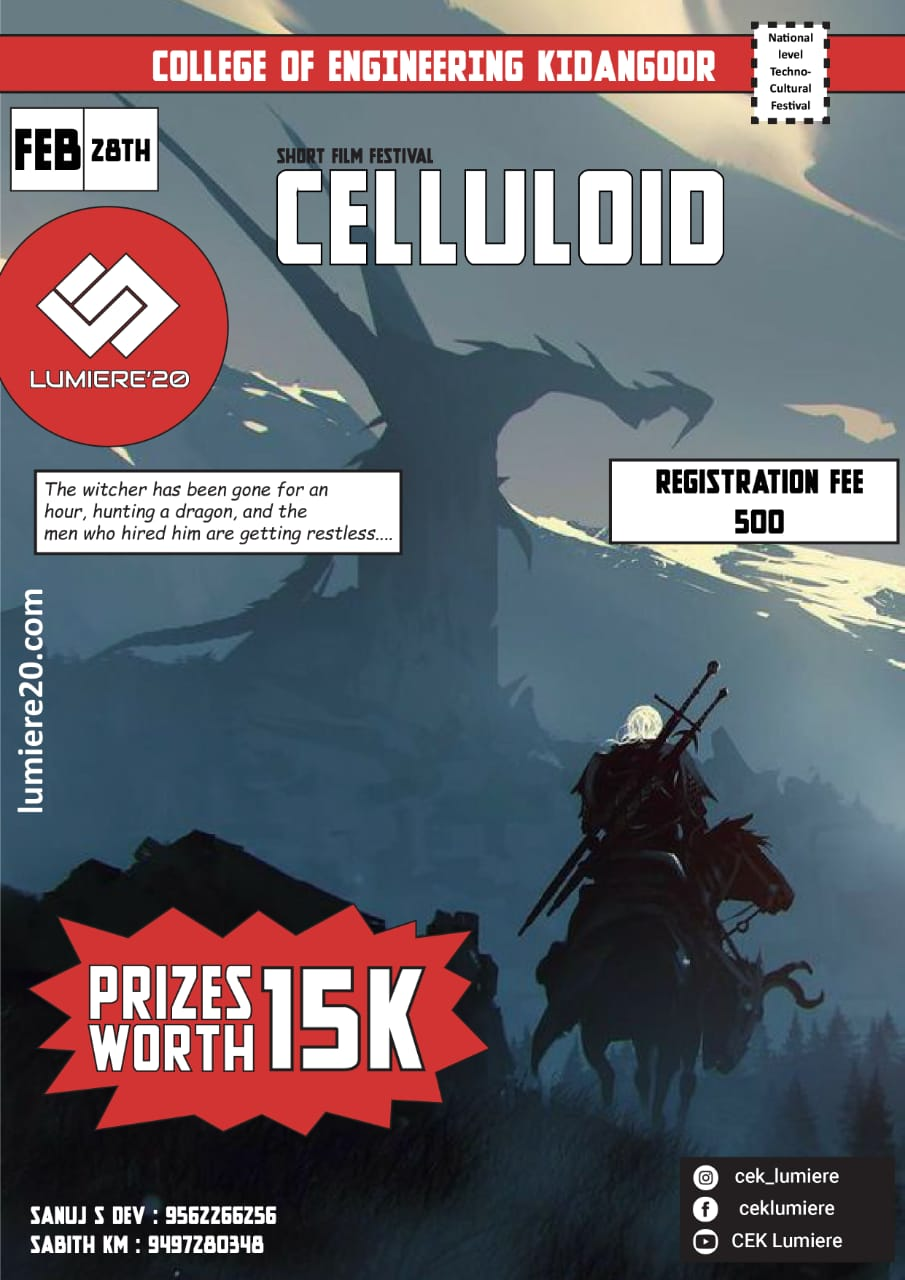
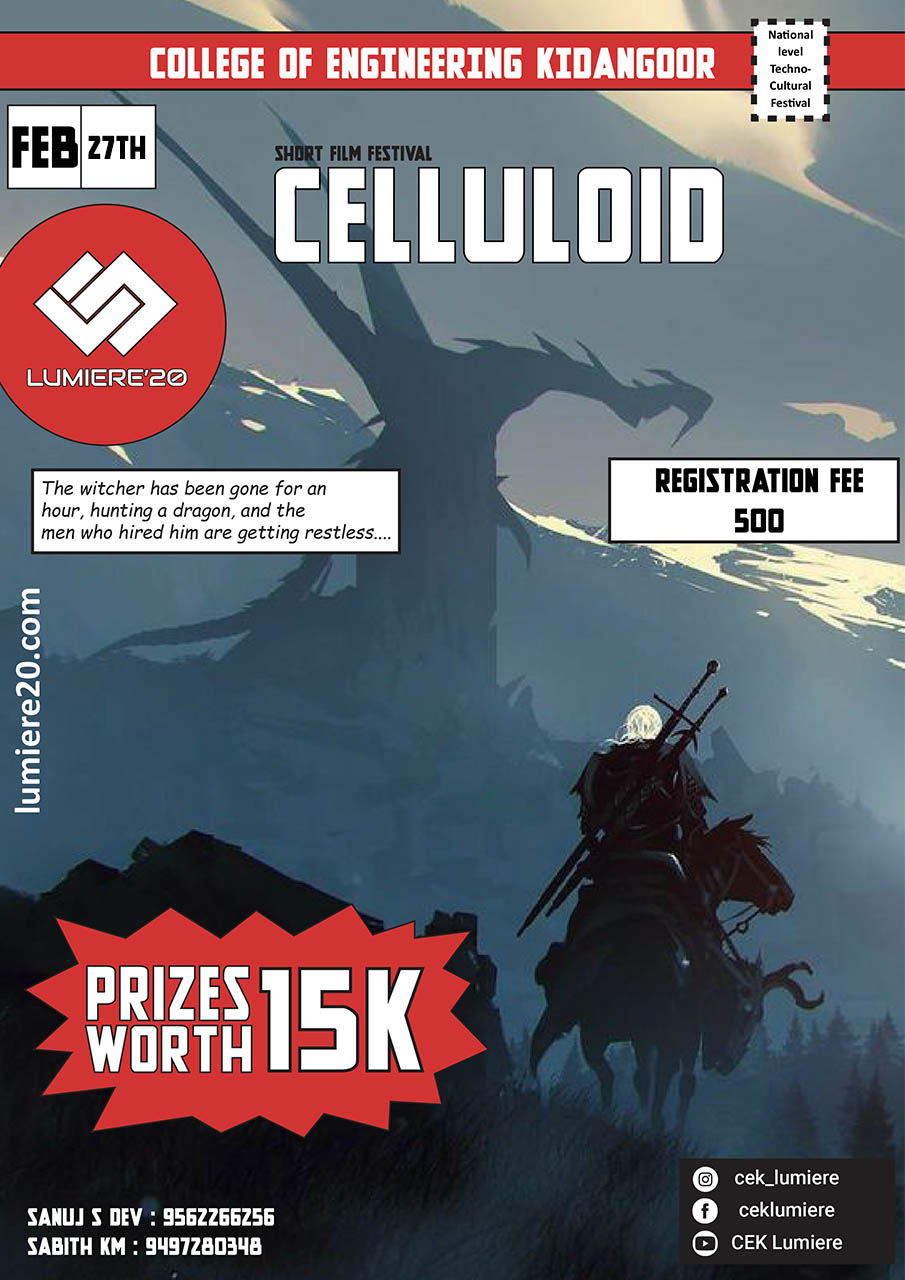
all poster and date correction

diff --git a/data/events/cultural/adapt-tune/index.md b/data/events/cultural/adapt-tune/index.md
@@ -1,6 +1,6 @@
 ---
 title: Adapt Tune
-image: ./event.png
+image: ./Adaptune.jpg
 description: Show off your dance skills in this amazing platform where you sync your brain and legs to adapt yourself to the beats!
 
 rules: 
@@ -23,6 +23,6 @@ eventHeads:
 prize: 5000
 registration: 200
 reg: https://www.yepdesk.com/buy-tickets/5e22c815e4b022450dc370c5
-date: Feb 27
+date: Feb 28
 ---
 Show off your dance skills in this amazing platform where you sync your brain and legs to adapt yourself to the beats!

diff --git a/data/events/cultural/fashion-show/index.md b/data/events/cultural/fashion-show/index.md
@@ -1,6 +1,6 @@
 ---
 title: Fashion Show
-image: ./event.png
+image: ./FashionShow.jpg
 description: Fashion is part of the daily air and it changes all the time, with all the events. You can even see the approaching of a revolution in clothes. You can see and feel everything in clothes. What you wear is how you present yourself to the world, especially today, when human contacts are so quick. Let’s explore your talent to glam yourself and prepare yourself for.
 
 rules: 

diff --git a/data/events/cultural/voice-of-lumiere/index.md b/data/events/cultural/voice-of-lumiere/index.md
@@ -20,6 +20,6 @@ eventHeads:
 prize: 5000
 registration: 100
 reg: https://www.yepdesk.com/buy-tickets/5e22cc74e4b022450dc39413
-date: Feb 28
+date: Feb 27
 ---
 Voices, The soul of music. A soulful voice that transcends all emotions. That voice which tranquilized all rage. That voice which gives everyone the Goosebumps. The voice that thrills. That voice could be yours. The stage has been set. Now it's time to bring it. The race to crown. The voice of Lumiere 2020 begins. 

diff --git a/data/events/general/short-film-fest/index.md b/data/events/general/short-film-fest/index.md
@@ -14,7 +14,7 @@ eventHeads:
 prize: 15000
 registration: 500
 reg: https://www.yepdesk.com/buy-tickets/5e22a03de4b022450dc27f0f
-date: Feb 28
+date: Feb 27
 ---
 
 Risking your own life in order to entertain others is the height of stupidity. Are you one with full of humour..? Do you think that you can dance away one's sorrows and put a smile on their face..? Then here’s the best platform giving you a chance to become one.

diff --git a/data/events/cultural/video-choreography/index.md b/data/events/cultural/video-choreography/index.md
@@ -1,6 +1,6 @@
 ---
 title: Video Choreography
-image: ./event.png
+image: ./VideoChoreography.jpg
 description: Dance, the movement of the body in a rhythmic way, usually to music and within a given space, for the purpose of expressing an idea or emotion, releasing energy, or simply taking delight in the movement itself. Video choreography is a choreographed simultaneous dances designed to performed in groups.
 
 rules: 

diff --git a/data/events/arts/pen-tatoo/index.md b/data/events/arts/pen-tatoo/index.md
@@ -17,7 +17,7 @@ eventHeads:
     - name: Pournami Sunil(EC)
       phone: 9961722698
 prize: 1000
-registration: 100
+registration: 50
 reg: https://www.yepdesk.com/buy-tickets/5e22da93e4b022450dc3bc07
 date: Feb 27
 ---

diff --git a/data/events/technical/paper-presentation/index.md b/data/events/technical/paper-presentation/index.md
@@ -20,7 +20,7 @@ eventHeads:
     - name: Sruthy Sree(EEE)
       phone: 9539304171
 prize: 10000
-registration: 500
+registration: 300
 reg: https://www.yepdesk.com/buy-tickets/5e22b944e4b022450dc32373
 date: Feb 28
 ---

diff --git a/data/events/arts/mehandi/index.md b/data/events/arts/mehandi/index.md
@@ -20,6 +20,6 @@ eventHeads:
 prize: 2000
 registration: 100
 reg: https://www.yepdesk.com/buy-tickets/5e22d75de4b022450dc3ac5c
-date: Feb 27
+date: Feb 28
 ---
 Bring the best in you for Mehendi Competition.

diff --git a/data/events/technical/best-engineer/index.md b/data/events/technical/best-engineer/index.md
@@ -18,6 +18,7 @@ eventHeads:
     
 prize: 8000
 registration: 100
+
 reg: https://www.yepdesk.com/buy-tickets/5e22b161e4b022450dc2f378
 date: Feb 28
 ---
